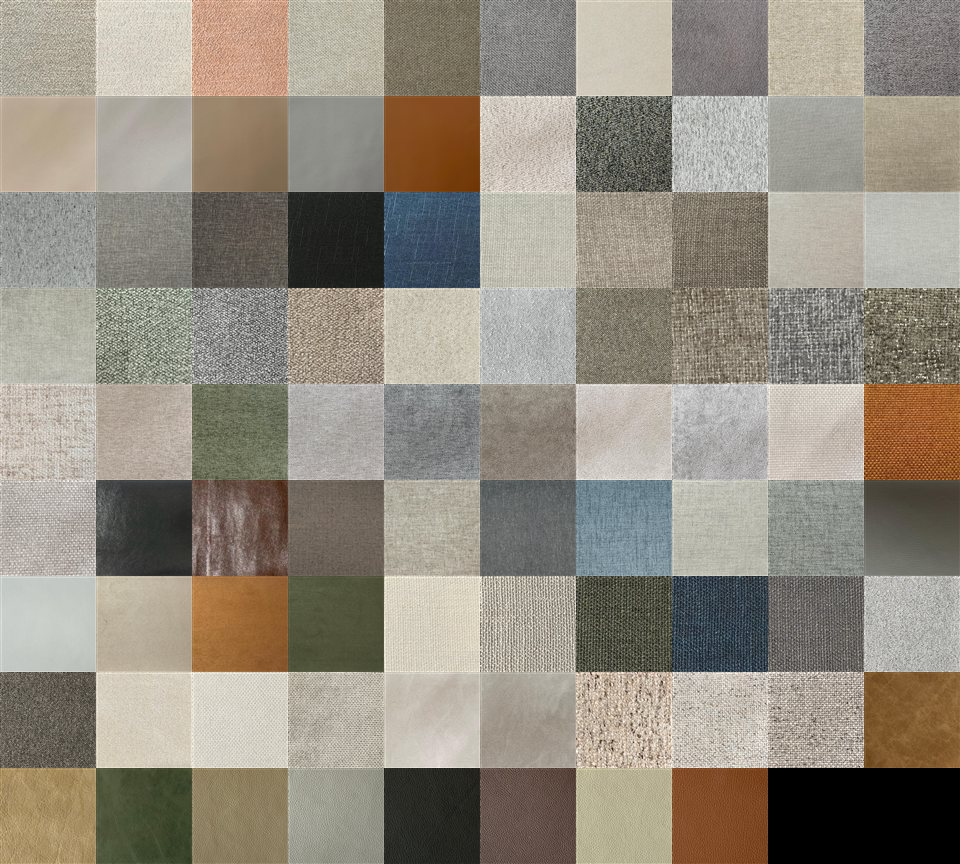
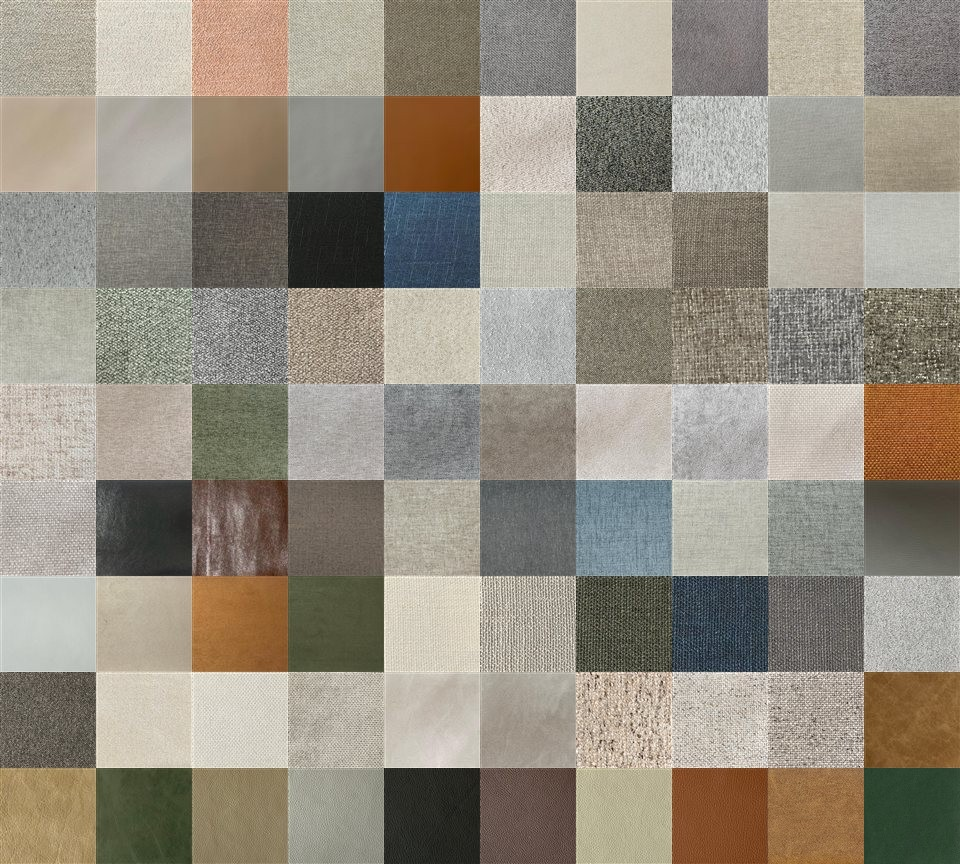
Add files via upload

Changed region(s): [[0.7812, 0.875, 1.0, 1.0]]

diff --git a/anc/catalogo.js b/anc/catalogo.js
@@ -15,16 +15,20 @@ export const ANC = {
     ['Couro legítimo', faixa('CO', '01,02,03,04,05,06,07,08,09')]
   ],
   tipo: k => /^CO-/.test(k) ? 'couroFosco' : /^AL-/.test(k) ? 'boucle' : 'linhoKF',
-  mini: { arquivo: 'anc/tecidos-mini.jpg', colunas: 10, linhas: 9, ordem: [...faixa('AL', '01,02,03,04,05,06,07,08,09,10,13,14,15,16,17,19,20,21'), ...faixa('CR', '83,85,121,123,124,144,145,146,147,148,149,150,151,153,154,155,156,157,158,159,160,161,162,164,165,166,167,168,169,170,171,172,173'), ...faixa('CM', '18,138,167,168,169,173,174,177,178,179,194,195,196,197,198,199,200,201,202,203,204,205,206,212,213'), ...faixa('PL', '149,150,151'), ...faixa('CO', '01,02,03,04,05,06,07,08,09')] },
+  mini: { arquivo: 'anc/tecidos-mini.jpg', colunas: 10, linhas: 9, ordem: [...faixa('AL', '01,02,03,04,05,06,07,08,09,10,13,14,15,16,17,19,20,21'), ...faixa('CR', '83,85,121,123,124,144,145,146,147,148,149,150,151,153,154,155,156,157,158,159,160,161,162,164,165,166,167,168,169,170,171,172,173'), ...faixa('CM', '18,138,167,168,169,173,174,177,178,179,194,195,196,197,198,199,200,201,202,203,204,205,206,212,213'), ...faixa('PL', '149,150,151'), ...faixa('CO', '01,02,03,04,05,06,07,08,09'), 'CM-211', 'CM-214'] },   // CM-211 e CM-214: só no revestimento da bandeja (mesas Gio)
   // madeira: [nome igual à opção do site, cor da bolinha, textura em anc/madeiras, null, grupo]
   // grupo 'mad' = "Escolha a madeira (ANC):" (maciça; as amostras do site são esferas, então o veio vem da lâmina, no tom da esfera)
   // grupo 'lam' = "Escolha a lâmina (ANC):" (foto real da amostra). O produto diz qual grupo usa em grupoMad.
   madeiras: [
     ['Castanho', '#825E4A', 'mad-castanho.jpg', null, 'mad'], ['Nogueira', '#6E5F58', 'mad-nogueira.jpg', null, 'mad'], ['Preto Ébano', '#2E3134', 'mad-preto-ebano.jpg', null, 'mad'],
+    // grupo 'tampo' (Mesa Franci): o Modelo do anúncio decide entre tampo laminado e tampo em mármore; cada um grava na sua personalização
+    ...[['Nogueira', '#886854', 'lam-nogueira.jpg'], ['Freijó', '#C5935C', 'lam-freijo.jpg'], ['Quartier', '#56483F', 'lam-quartier.jpg'], ['Preto Ébano', '#2E3134', 'lam-preto-ebano.jpg']].map(([n, cor, a]) => ['Lâmina ' + n, cor, a, { esp: 'lamTampo', valor: n }, 'tampo']),
+    ...[['Nero', '#2B2B2E', 'mar-nero.jpg'], ['Branco Carrara', '#E2E3E1', 'mar-branco-carrara.jpg'], ['Marrom Imperador', '#4A3B32', 'mar-marrom-imperador.jpg'], ['Travertino Natural', '#D8CFBA', 'mar-travertino-natural.jpg'], ['Verde Alpi', '#3F5A4E', 'mar-verde-alpi.jpg']].map(([n, cor, a]) => ['Mármore ' + n, cor, a, { esp: 'marmore', valor: n }, 'tampo']),
     ['Nogueira', '#886854', 'lam-nogueira.jpg', null, 'lam'], ['Freijó', '#C5935C', 'lam-freijo.jpg', null, 'lam'], ['Quartier', '#56483F', 'lam-quartier.jpg', null, 'lam'], ['Preto Ébano', '#2E3134', 'lam-preto-ebano.jpg', null, 'lam']
   ],
   // metal: nome igual à opção de "Escolha a cor do metal (ANC):"; cor aproximada da esfera de amostra do site
   // laca ou pintura: nome igual à opção de "Escolha a laca ou pintura (ANC):"; cor aproximada da amostra do site
-  lacas: [['Preto', '#1E1E1E'], ['Fendi', '#B3A38D'], ['Tabaco', '#6B4B36']],
+  lacas: [['Preto', '#151213'], ['Fendi', '#A8977D'], ['Tabaco', '#76583C']],
+  especies: { lamTampo: { linha: 'Tampo laminado', sel: 'Escolha a lâmina (ANC):' }, marmore: { linha: 'Tampo em mármore', sel: 'Escolha o mármore (ANC):' } },
   metais: [['Preto', '#1E1E1E'], ['Champagne', '#CFC9B4'], ['Dourado', '#C9B26A'], ['Bronze', '#8B8472'], ['Grafite', '#5F6767'], ['Moka', '#7A6359'], ['Marino', '#3A566E'], ['Cinza', '#8A9395'], ['Coral', '#E0A06C']]
 };
